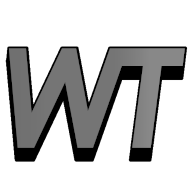
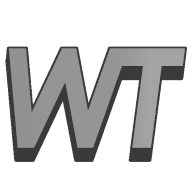
Added some exercise descriptions

diff --git a/workouttracker/templates/workouttracker/base.html b/workouttracker/templates/workouttracker/base.html
@@ -67,7 +67,7 @@
       <a href="{% url 'index' %}" class="brand-link">
         <!-- mini logo for sidebar mini 50x50 pixels -->
         <img src="static/workouttracker/img/android-chrome-192x192.png" alt="OpenWorkoutTrackerLogo" class="brand-image"
-        style="filter: brightness(1.5);">
+        >
         <span class="brand-text font-weight-light"><b>Open</b>WorkoutTracker</span>
       </a>
           <!-- Sidebar -->
